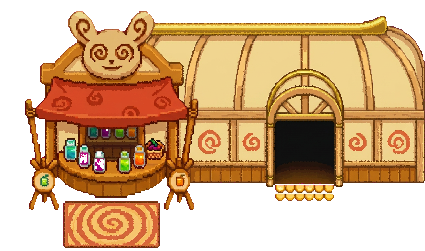
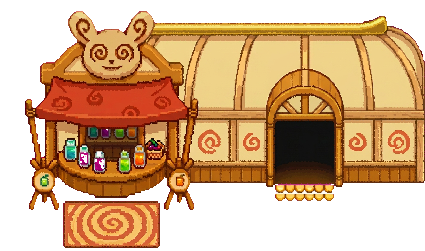
Match the entrance frame to the kiosk's timber
The archway posts and curve were a pale washed-out gold that clashed with the
rest of the cafe. They now use the same honey-brown wood as the kiosk's posts,
beams and counter, grain and outlines included.

Everything else in d4 is preserved: barrel roofline, gold ridge, cream panels
with the spiral emblems, plank skirt, and the doorless opening with its black
interior and golden threshold scallops. d5 explored a straight tiled roof and
is kept only for reference.

diff --git a/variantes/README.md b/variantes/README.md
@@ -10,10 +10,17 @@ de demi-cercles dorés qui éclaire le seuil.
 | `d1_chaumiere.png` | chaumière en pierre, toit de chaume, cheminée fumante |
 | `d2_serre.png` | serre vitrée, parois vert d'eau et plantes |
 | `d3_pagode.png` | pagode à deux étages, balcon et lanternes |
-| **`d4_kiosque_spirales.png`** | **murs de kiosque crème et bois, ornés des spirales de Spinda** |
+| `d4_kiosque_spirales.png` | murs de kiosque crème et bois, ornés des spirales de Spinda |
+| `d5_kiosque_toit_droit.png` | même idée mais toit droit en tuiles — **écartée**, elle perdait le design de `d4` |
+| **`d6_porte_bois_kiosque.png`** | **`d4` avec l'encadrement de porte dans le bois miel du kiosque** |
 
 `d4` reprend `d2` en remplaçant le vitrage et la végétation par de vrais murs
 de kiosque, dans les mêmes matériaux que la partie gauche.
+
+`d6` est la version retenue : elle conserve `d4` trait pour trait et ne change
+que l'encadrement de l'entrée, jusque-là dans un doré pâle qui jurait avec le
+reste. Les montants et l'arc reprennent le bois miel des poteaux et du comptoir
+du kiosque, veinures et contours compris.
 
 Ces fichiers sont les **sorties brutes du générateur** : fond magenta uni,
 agrandies. Pour en tirer un PNG transparent au format de la source :
@@ -21,8 +28,8 @@ agrandies. Pour en tirer un PNG transparent au format de la source :
 ```bash
 cd ../spinda_cafe
 python3 ../tileset_pmd/detourer_magenta.py \
-    spindacafevFINAL.png ../variantes/d4_kiosque_spirales.png sortie.png
+    spindacafevFINAL.png ../variantes/d6_porte_bois_kiosque.png sortie.png
 ```
 
-La version détourée de `d4` est déjà disponible :
+La version détourée de `d6` est déjà disponible :
 `../spinda_cafe/spinda_cafe_variante_kiosque.png` (425 × 251, bords nets).
